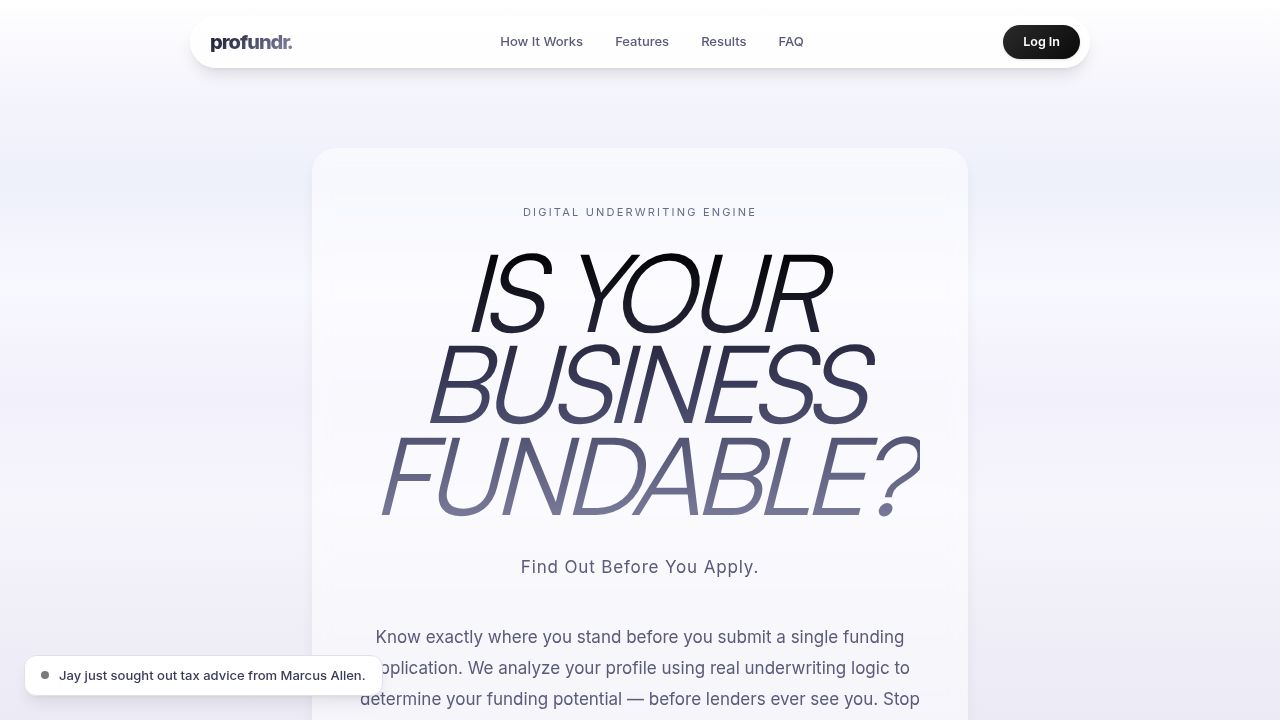
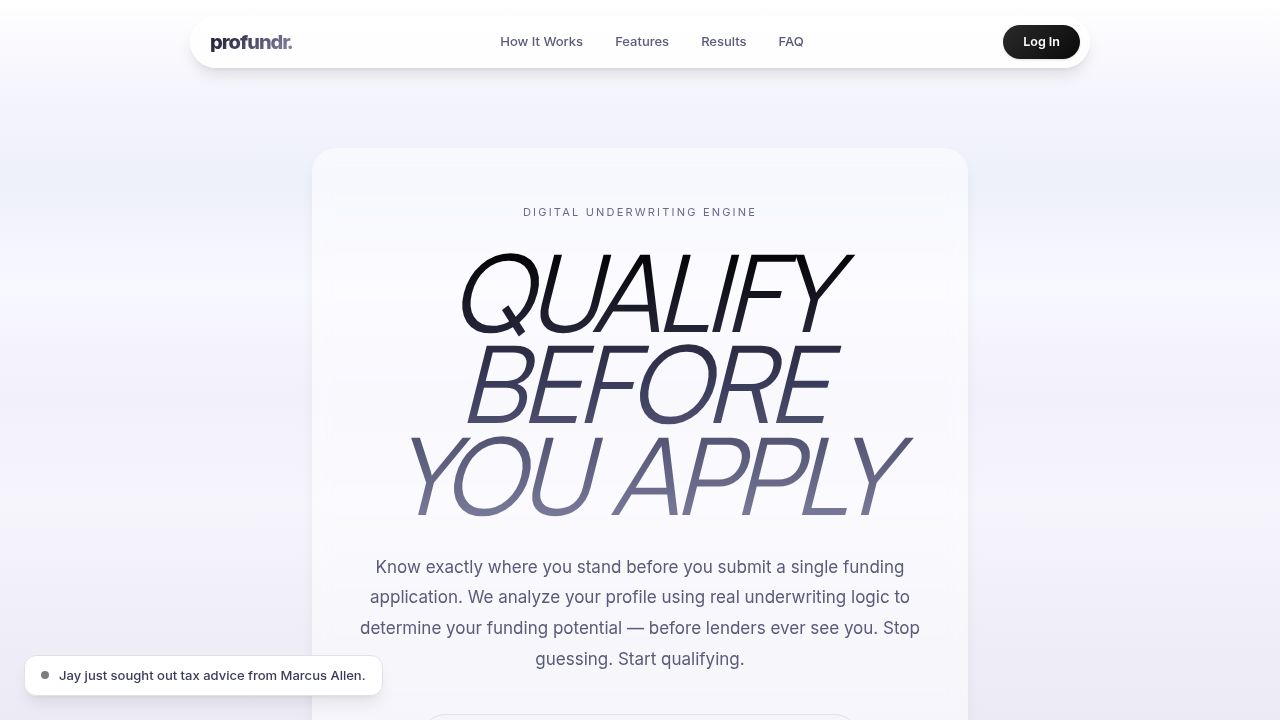
Update landing page headline and add decorative torn paper effects
Introduces a new headline "Qualify Before You Apply" and integrates a `TornPaperEdge` component to visually separate sections on the landing page.

Replit-Commit-Author: Agent
Replit-Commit-Session-Id: e8a1cf4c-ae82-492b-91f8-46b21dc24bf7
Replit-Commit-Checkpoint-Type: full_checkpoint
Replit-Commit-Event-Id: e2f7b2d6-c130-46be-8196-fccaf7288c2d
Replit-Commit-Screenshot-Url: https://storage.googleapis.com/screenshot-production-us-central1/e2c02e96-e3a9-4101-9f6c-32d026c7e8ac/e8a1cf4c-ae82-492b-91f8-46b21dc24bf7/25gS5gy
Replit-Helium-Checkpoint-Created: true

Changed region(s): [[0.2812, 0.3361, 0.7188, 0.7333], [0.2812, 0.825, 0.7188, 0.9778], [0.2812, 0.7639, 0.7188, 0.7944]]

diff --git a/client/src/pages/landing.tsx b/client/src/pages/landing.tsx
@@ -67,6 +67,24 @@ const SubscribeButton = ({ className = "", onSubscribe }: { className?: string; 
   </button>
 );
 
+const TornPaperEdge = ({ flip = false }: { flip?: boolean }) => (
+  <div className={`relative z-30 w-full overflow-hidden pointer-events-none ${flip ? 'rotate-180' : ''}`} style={{ height: '60px', marginTop: flip ? '0' : '-30px', marginBottom: flip ? '-30px' : '0' }}>
+    <svg viewBox="0 0 1200 60" preserveAspectRatio="none" className="w-full h-full" xmlns="http://www.w3.org/2000/svg">
+      <path
+        d="M0,30 Q15,8 30,28 Q45,48 60,25 Q75,2 90,22 Q105,42 120,18 Q135,0 150,26 Q165,52 180,20 Q195,0 210,32 Q225,55 240,15 Q255,0 270,28 Q285,50 300,22 Q315,0 330,30 Q345,55 360,18 Q375,0 390,25 Q405,48 420,12 Q435,0 450,32 Q465,58 480,20 Q495,0 510,28 Q525,50 540,16 Q555,0 570,30 Q585,52 600,22 Q615,0 630,26 Q645,48 660,14 Q675,0 690,28 Q705,55 720,18 Q735,0 750,30 Q765,52 780,20 Q795,0 810,25 Q825,48 840,15 Q855,0 870,32 Q885,55 900,18 Q915,0 930,28 Q945,50 960,22 Q975,0 990,26 Q1005,48 1020,16 Q1035,0 1050,30 Q1065,52 1080,20 Q1095,0 1110,28 Q1125,50 1140,18 Q1155,0 1170,25 Q1185,48 1200,30 L1200,60 L0,60 Z"
+        fill="white"
+        fillOpacity="0.35"
+      />
+      <path
+        d="M0,30 Q15,8 30,28 Q45,48 60,25 Q75,2 90,22 Q105,42 120,18 Q135,0 150,26 Q165,52 180,20 Q195,0 210,32 Q225,55 240,15 Q255,0 270,28 Q285,50 300,22 Q315,0 330,30 Q345,55 360,18 Q375,0 390,25 Q405,48 420,12 Q435,0 450,32 Q465,58 480,20 Q495,0 510,28 Q525,50 540,16 Q555,0 570,30 Q585,52 600,22 Q615,0 630,26 Q645,48 660,14 Q675,0 690,28 Q705,55 720,18 Q735,0 750,30 Q765,52 780,20 Q795,0 810,25 Q825,48 840,15 Q855,0 870,32 Q885,55 900,18 Q915,0 930,28 Q945,50 960,22 Q975,0 990,26 Q1005,48 1020,16 Q1035,0 1050,30 Q1065,52 1080,20 Q1095,0 1110,28 Q1125,50 1140,18 Q1155,0 1170,25 Q1185,48 1200,30"
+        fill="none"
+        stroke="rgba(180,180,200,0.2)"
+        strokeWidth="1"
+      />
+    </svg>
+  </div>
+);
+
 const ScrollArrow = ({ targetId }: { targetId: string }) => (
   <button
     onClick={() => document.getElementById(targetId)?.scrollIntoView({ behavior: 'smooth' })}
@@ -260,11 +278,8 @@ export default function LandingPage() {
             style={{ fontFamily: "'Satoshi', sans-serif", fontWeight: 400, letterSpacing: '-0.06em', backgroundImage: 'linear-gradient(180deg, #000000 0%, #3a3a5a 50%, #7a7a9a 100%)', WebkitBackgroundClip: 'text', WebkitTextFillColor: 'transparent', backgroundClip: 'text' }}
             data-testid="text-hero-headline"
           >
-            <span className="hidden sm:inline">Is Your<br />Business<br />Fundable?</span><span className="sm:hidden">Is Your Business<br />Fundable?</span>
+            <span className="hidden sm:inline">Qualify<br />Before<br />You Apply</span><span className="sm:hidden">Qualify Before<br />You Apply</span>
           </h1>
-          <p className="text-[13px] sm:text-[17px] tracking-[0.05em] text-[#5a5a7a] leading-[1.6] sm:leading-[1.8] max-w-[560px] mx-auto mb-8 sm:mb-10 px-1 sm:px-0">
-            Find Out Before You Apply.
-          </p>
           <p className="text-[12px] sm:text-[17px] text-[#5a5a7a] leading-[1.6] sm:leading-[1.8] max-w-[560px] mx-auto mb-8 sm:mb-10 px-1 sm:px-0">
             Know exactly where you stand before you submit a single funding application. We analyze your profile using real underwriting logic to determine your funding potential — before lenders ever see you. Stop guessing. Start qualifying.
           </p>
@@ -304,6 +319,7 @@ export default function LandingPage() {
           <ScrollArrow targetId="sec-problem" />
         </div>
       </section>
+      <TornPaperEdge />
 
       {/* ═══════════════ 2. PROBLEM / PAIN ═══════════════ */}
       <section id="sec-problem" className="relative z-20 px-6 sm:px-12 md:px-20 py-20 sm:py-28 text-center">
@@ -333,6 +349,7 @@ export default function LandingPage() {
         </div>
       </section>
 
+      <TornPaperEdge />
       {/* ═══════════════ 3. SOLUTION OVERVIEW ═══════════════ */}
       <section id="sec-solution" className="relative z-20 px-6 sm:px-12 md:px-20 py-20 sm:py-28 text-center">
 
@@ -366,6 +383,7 @@ export default function LandingPage() {
         </div>
       </section>
 
+      <TornPaperEdge />
       {/* ═══════════════ 4. HOW IT WORKS ═══════════════ */}
       <section id="how-it-works" className="relative z-20 px-6 sm:px-12 md:px-20 py-20 sm:py-28 text-center">
 
@@ -397,6 +415,7 @@ export default function LandingPage() {
         </div>
       </section>
 
+      <TornPaperEdge />
       {/* ═══════════════ 5. FUNDING OUTCOMES ═══════════════ */}
       <section id="features" className="relative z-20 px-6 sm:px-12 md:px-20 py-20 sm:py-28 text-center">
 
@@ -431,6 +450,7 @@ export default function LandingPage() {
         </div>
       </section>
 
+      <TornPaperEdge />
       {/* ═══════════════ 6. SOCIAL PROOF ═══════════════ */}
       <section id="results" className="relative z-20 px-6 sm:px-12 md:px-20 py-20 sm:py-28 text-center">
 
@@ -476,6 +496,7 @@ export default function LandingPage() {
         </div>
       </section>
 
+      <TornPaperEdge />
       {/* ═══════════════ 7. RISK REVERSAL ═══════════════ */}
       <section id="sec-risk" className="relative z-20 px-6 sm:px-12 md:px-20 py-20 sm:py-28 text-center">
 
@@ -516,6 +537,7 @@ export default function LandingPage() {
         </div>
       </section>
 
+      <TornPaperEdge />
       {/* ═══════════════ 8. FEATURE BREAKDOWN ═══════════════ */}
       <section id="sec-breakdown" className="relative z-20 px-6 sm:px-12 md:px-20 py-20 sm:py-28 text-center">
 
@@ -555,6 +577,7 @@ export default function LandingPage() {
         </div>
       </section>
 
+      <TornPaperEdge />
       {/* ═══════════════ 9. MODE DIFFERENTIATION ═══════════════ */}
       <section id="sec-modes" className="relative z-20 px-6 sm:px-12 md:px-20 py-20 sm:py-28 text-center">
 
@@ -606,6 +629,7 @@ export default function LandingPage() {
         </div>
       </section>
 
+      <TornPaperEdge />
       {/* ═══════════════ 10. TIER POSITIONING ═══════════════ */}
       <section id="sec-tiers" className="relative z-20 px-6 sm:px-12 md:px-20 py-20 sm:py-28 text-center">
 
@@ -635,6 +659,7 @@ export default function LandingPage() {
         </div>
       </section>
 
+      <TornPaperEdge />
       {/* ═══════════════ 11. CASE STUDY ═══════════════ */}
       <section id="sec-case" className="relative z-20 px-6 sm:px-12 md:px-20 py-20 sm:py-28 text-center">
 
@@ -669,6 +694,7 @@ export default function LandingPage() {
         </div>
       </section>
 
+      <TornPaperEdge />
       {/* ═══════════════ 12. FAQ / OBJECTION HANDLING ═══════════════ */}
       <section id="faq" className="relative z-20 px-6 sm:px-12 md:px-20 py-20 sm:py-28 text-center">
 
@@ -703,6 +729,7 @@ export default function LandingPage() {
         </div>
       </section>
 
+      <TornPaperEdge />
       {/* ═══════════════ 13. TRUST & COMPLIANCE ═══════════════ */}
       <section id="sec-trust" className="relative z-20 px-6 sm:px-12 md:px-20 py-20 sm:py-28 text-center">
 
@@ -732,6 +759,7 @@ export default function LandingPage() {
         </div>
       </section>
 
+      <TornPaperEdge />
       {/* ═══════════════ 14. FINAL CTA ═══════════════ */}
       <section id="sec-cta" className="relative z-20 px-6 sm:px-12 md:px-20 py-24 sm:py-36">
 
